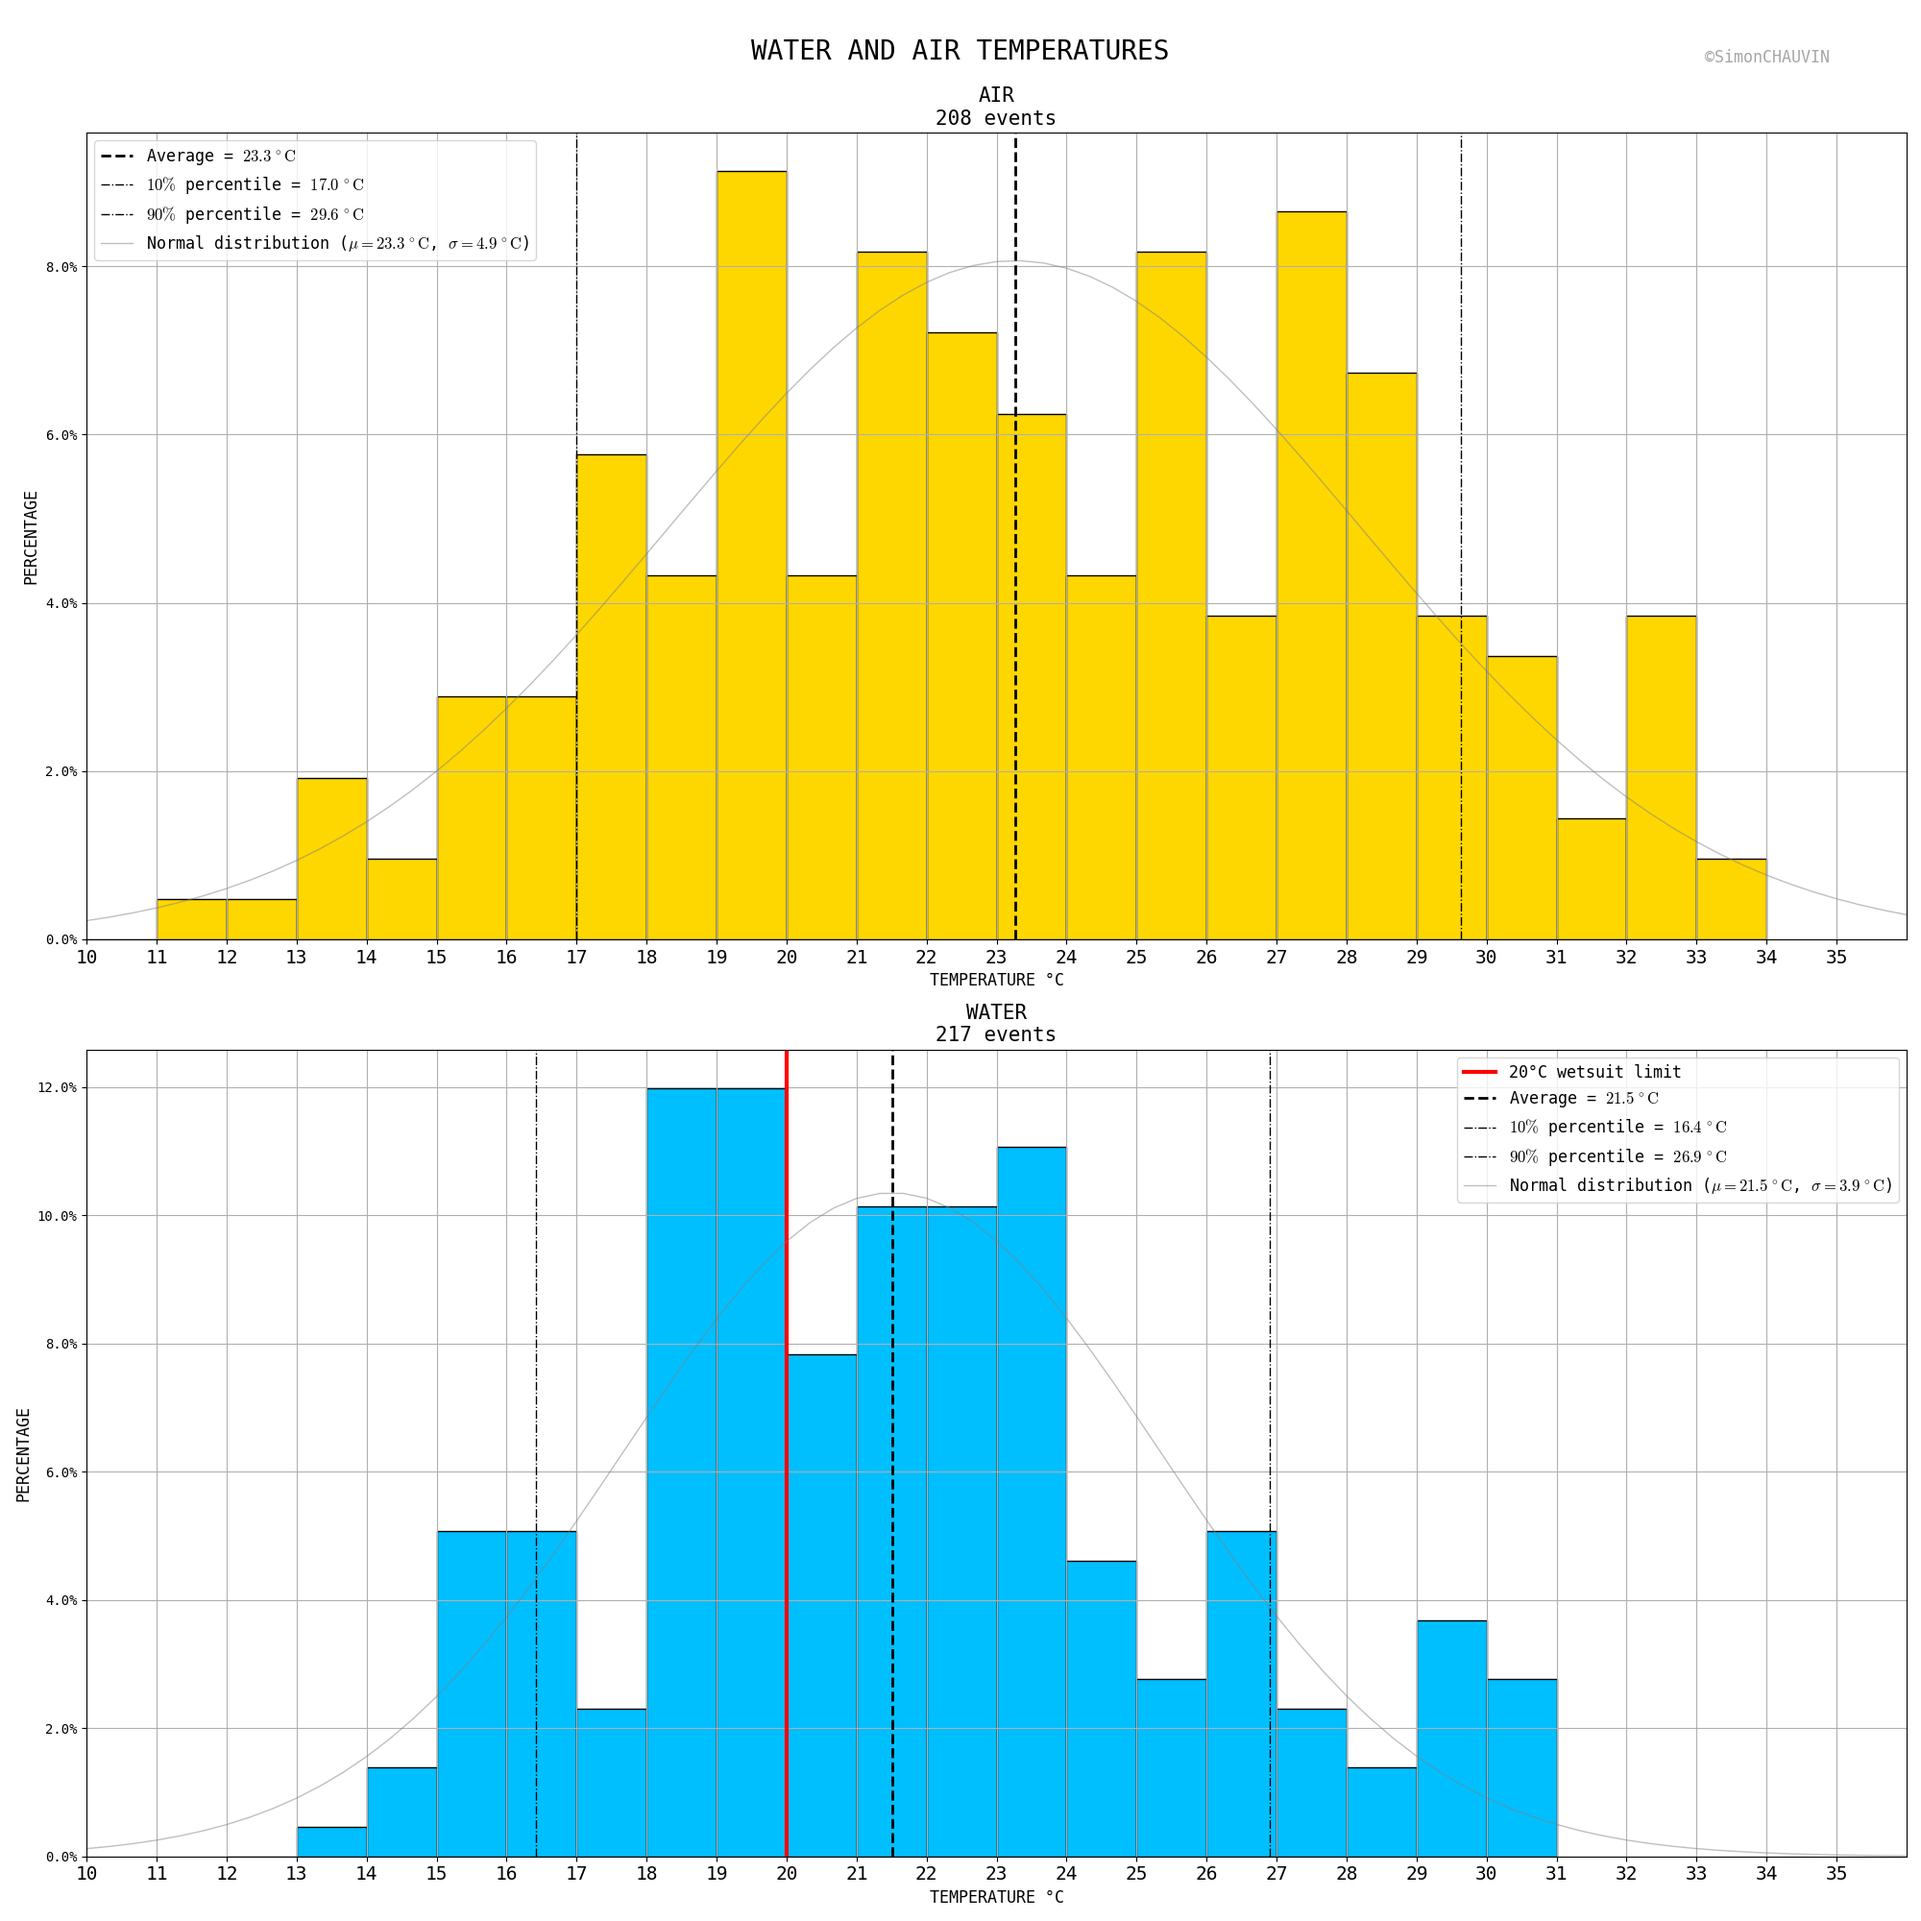
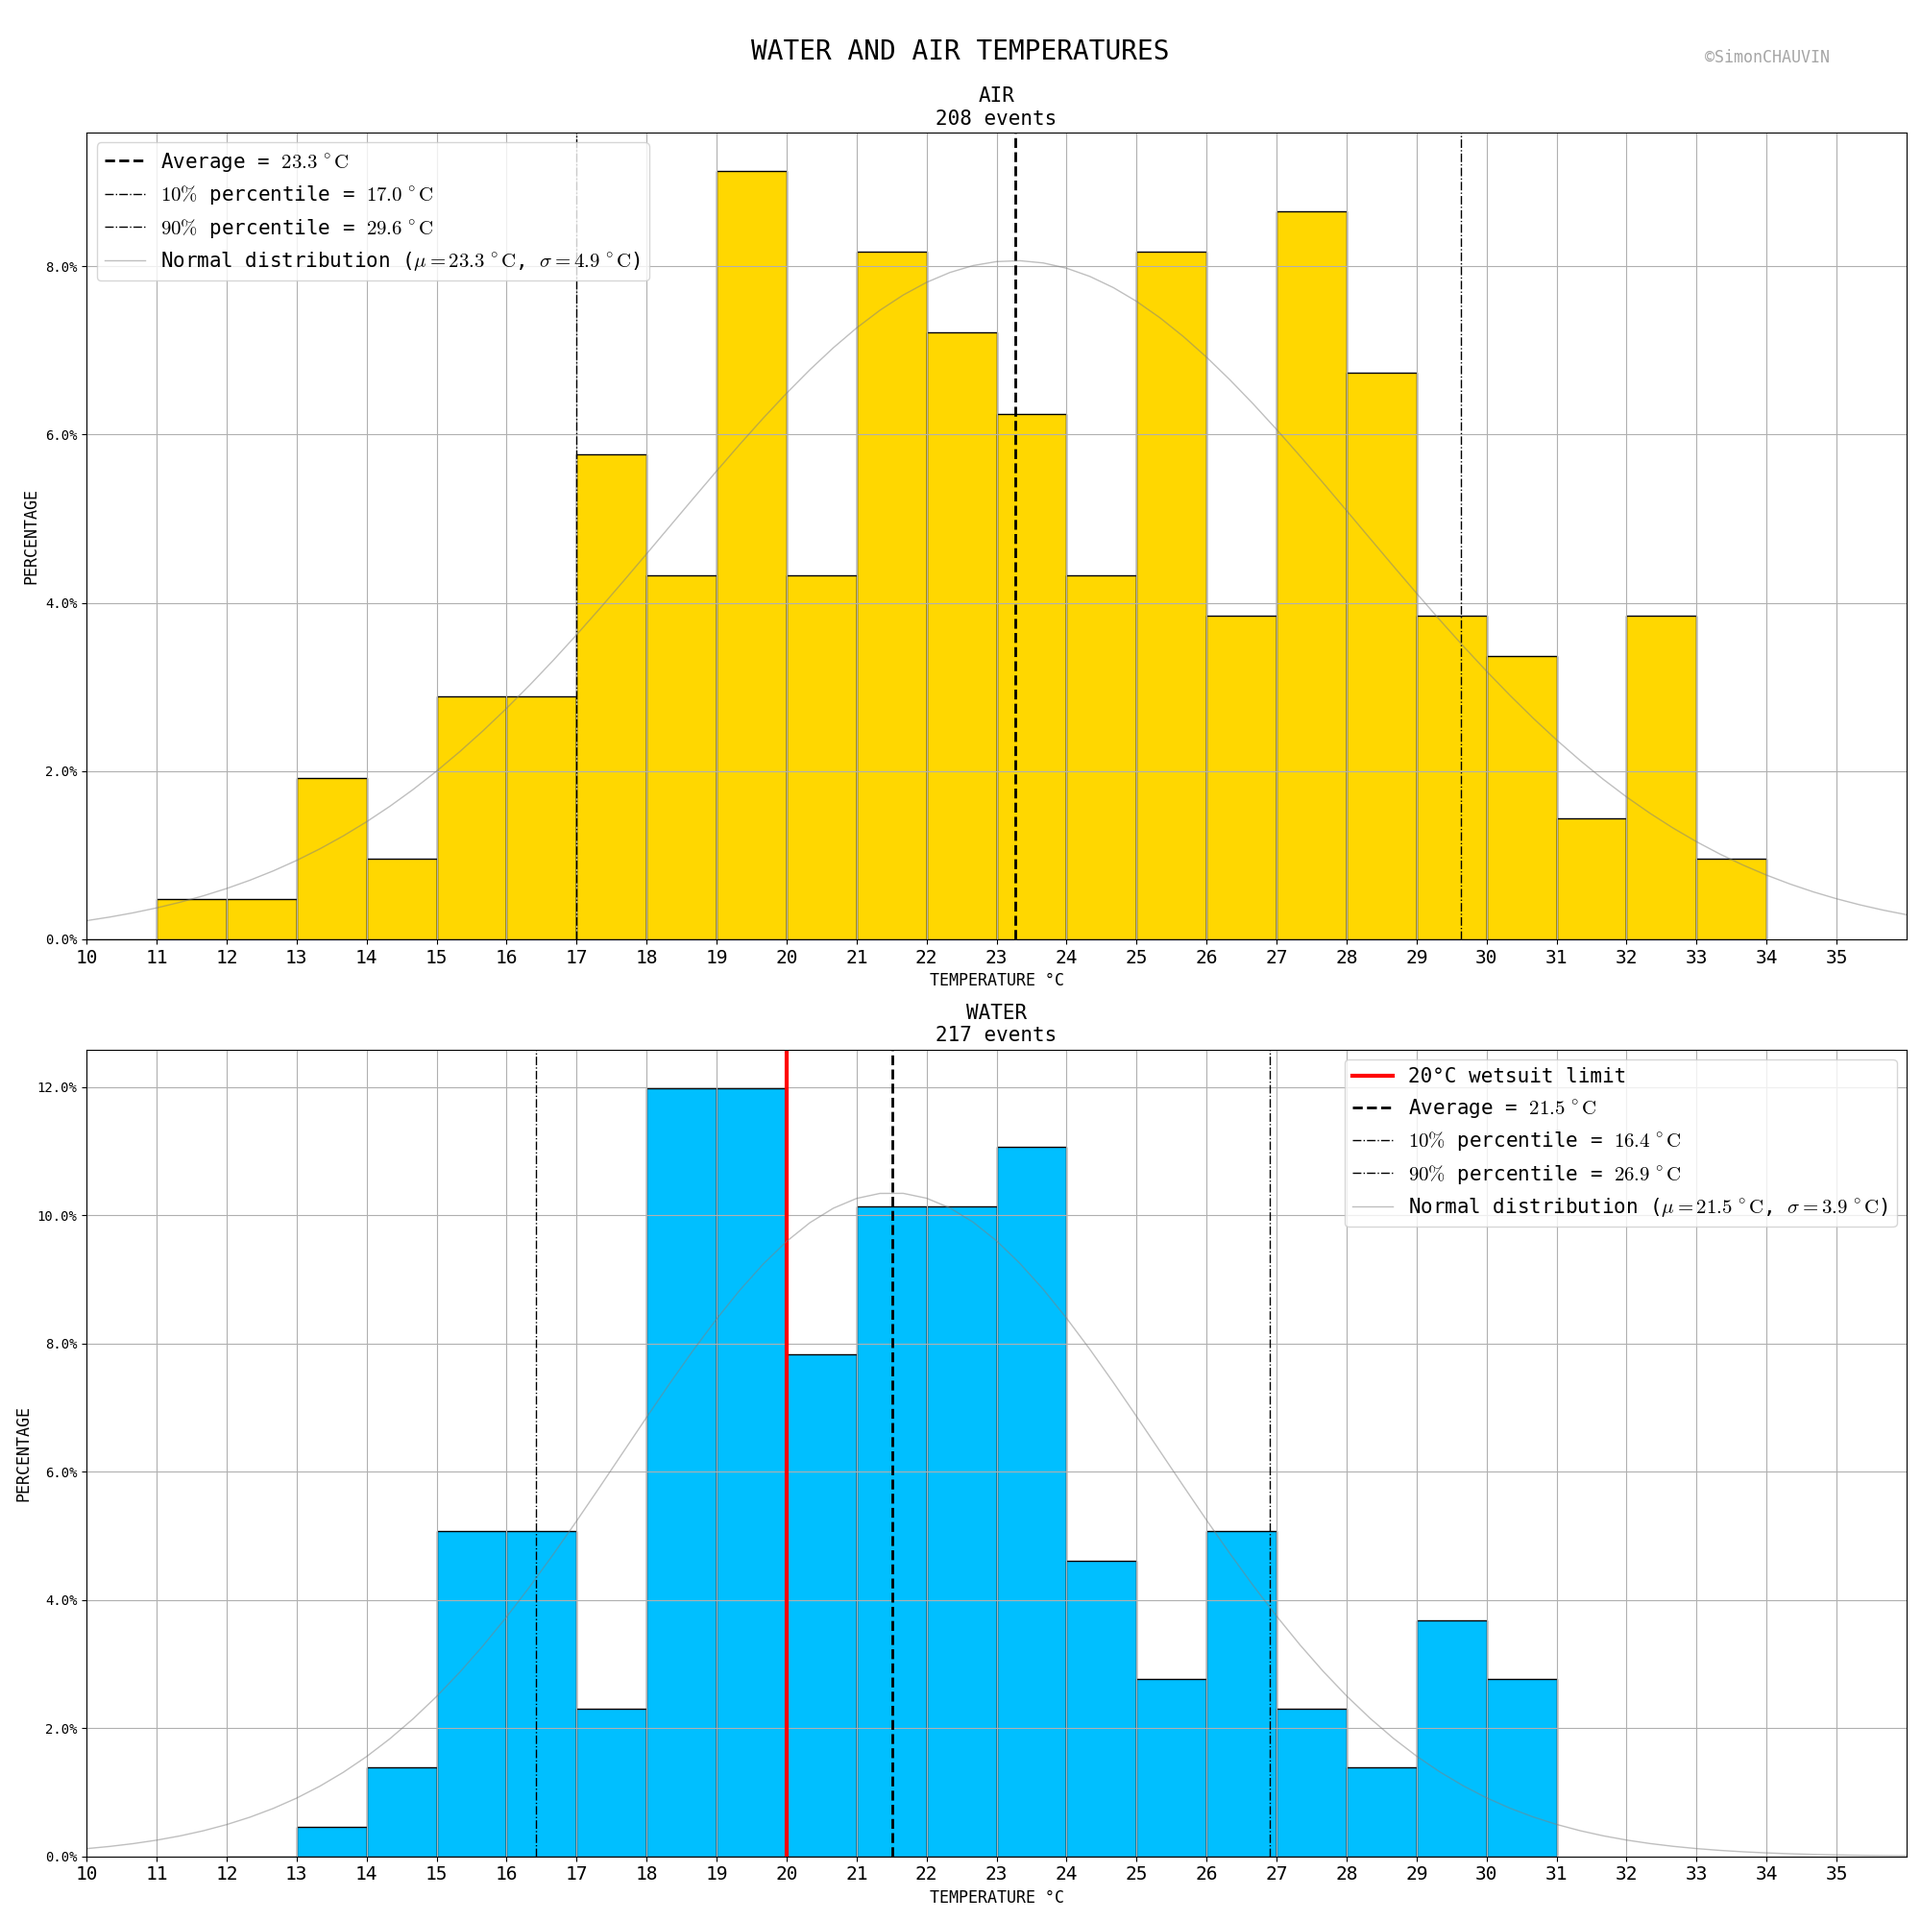
update text

Changed region(s): [[0.713, 0.558, 0.899, 0.651], [0.062, 0.062, 0.31, 0.155], [0.93, 0.62, 0.961, 0.651]]

diff --git a/races.py b/races.py
@@ -2736,7 +2736,7 @@ def process_temperatures(df):
         axes[i_measure].set_xlim(measure_min - 1, measure_max + 2)
         axes[i_measure].set_xticks(range(int(measure_min) - 1, int(measure_max) + 2, 1))
         axes[i_measure].tick_params(axis='x', which='major', labelsize=14)
-        axes[i_measure].legend(fontsize=12)
+        axes[i_measure].legend(fontsize=15)
         axes[i_measure].set_title(f"{measure.upper()}\n{len(data)} events", fontsize=15)
         axes[i_measure].set_xlabel("TEMPERATURE °C", fontsize=12)
         axes[i_measure].set_ylabel("Percentage".upper(), fontsize=12)
@@ -2890,8 +2890,7 @@ def process_temperatures(df):
                     axes[i_distance_category, i_suffix].axvline(
                         20,
                         linestyle="-.",
-                        linewidth=1,
-                        alpha=1,
+                        linewidth=2,
                         color="black",
                         label="20°C"
                     )
@@ -2927,7 +2926,7 @@ def process_temperatures(df):
                     # Add the rectangle to the plot
                     axes[i_distance_category, i_suffix].add_patch(rect)
 
-                axes[i_distance_category, i_suffix].legend()
+                axes[i_distance_category, i_suffix].legend(fontsize=15)
 
         # create markdown table
         df = df.dropna(subset=[f"{measure}_temperature_w", f"{measure}_temperature_m"])

diff --git a/README.md b/README.md
@@ -10,7 +10,7 @@ This document **analyses data** of [**World Triathlon**](https://triathlon.org/)
 - :dart: How often does an athlete **win from a bike breakaway**?
 - :runner: How often does the **best runner win**?
 - :rocket: How often is the win decided with a **sprint finish**?
-- :thermometer: Do **water and air temperatures** affect swimming and running performance, respectively? 
+- :thermometer: Do **water and air temperatures** affect swimming and running performance? 
 - :white_flag: What are the most represented **nations**? Which nations have serious problems for their **Olympics selection**?
 - :muscle: What is the typical **age** of performing athletes and how has it evolved over years?
 - :next_track_button: **How old** are athletes when they **stop racing**?
@@ -1155,7 +1155,7 @@ The swim of [2024 Paris ( :fr: ) Olympics](https://triathlon.org/results/result/
 
 # :thermometer: TEMPERATURES
 
-This section examines the recorded **water and air temperatures** and, inspired by the recent work by [Gibson (2024)](https://eprints.qut.edu.au/250162/), investigates their influence on **swimming and running performance**, respectively.
+This section examines the recorded **water and air temperatures** and, inspired by the recent work by [Gibson (2024)](https://eprints.qut.edu.au/250162/), investigates their impact on **swimming and running performance**, respectively.
 
 | ![temperatures.png](res/temperatures.png) | 
 |:-----------------------------------------:| 
@@ -1169,32 +1169,35 @@ The **temperature ranges** are **broad**:
 
 ---
 
-**Several limitations** should be noted:
-- More than half of the events do not report any temperature.
-- The **recorded temperatures** are most likely **lower** than the **actual temperatures** on the course.
-  - Because measurements are made **before the race**.
+**Several limitations** should be considered:
+- **Incomplete data:** Over half of the events lack temperature data, limiting the analysis's comprehensiveness.
+- **Pre-race measurements:** The recorded temperatures are likely **lower than the actual conditions** experienced during the race since measurements are typically **taken before the event**. Specifically:
   - _"Water temperature must be taken **one hour** prior to the start of the event on competition day. It must be taken at the middle of the course and in two other areas on the swim course, at a **depth of 60 cm**."_
-  - Air temperatures are likely also **recorded before the race**. By the time athletes **begin the run**, it **can get significantly warmer**.
-- In addition to the air temperature, **humidity** could have a significant impact on running performance, but its value is not reported.
+  - Air temperatures are likely **recorded before the race** as well, potentially leading to **significant temperature increases** by the time athletes begin the run.
+- **Humidity Impact:** While humidity could significantly affect running performance, its values are **not reported**.
 - Last but not least, **swim and run courses vary in distance**, and water conditions (e.g., waves, salinity) also differ between events, making **comparisons challenging**.
 
-:warning: Given these **limitations**, particularly the variation in course distances, **caution is necessary when drawing conclusions**!
+:warning: Given these **limitations**, especially the variation in course distances, **conclusions should be drawn with caution**.
 
 ---
+
+### :ocean: Water temperatures and swim times
 
 | ![temperatures_water.png](res/temperatures_water.png) | 
 |:-----------------------------------------------------:| 
 |          *Water temperature and swim times.*          |
 
-The [women's race](https://triathlon.org/results/result/2021_world_triathlon_cup_haeundae/454064) at [Haeundae ( :kr: ) (2021)](https://www.triathlon.org/events/event/2021_world_triathlon_cup_haeundae) is ignored because of **inconsistency with the 20°C-rule** for the wetsuit:
-- The race report says: _"Water temperature 21.3ºC. Air temperature 15.4º C. Wetsuits allowed."_
+The [women's race](https://triathlon.org/results/result/2021_world_triathlon_cup_haeundae/454064) at [Haeundae ( :kr: ) (2021)](https://www.triathlon.org/events/event/2021_world_triathlon_cup_haeundae) is excluded due to an **inconsistency with the 20°C wetsuit rule**:
+- The race report notes: _"Water temperature 21.3ºC. Air temperature 15.4º C. Wetsuits allowed."_
 - The [2024 rule book](https://www.triathlon.org/uploads/docs/World-Triathlon_Competition-Rules_2024_20240416.pdf) states in section 4.4.b. that _"when the water temperature is at or below 22ºC and the **air temperature** is at or below **15ºC**, then **the value of the water temperature will be adjusted**."_
   - For instance: Air at 15°C and water at 22°C -> The **water temperature is adjusted** at 18.5°C -> Wetsuit allowed.
-  - Probably this 15°C threshold was higher in 2021.
+  - It is possible that the 15°C threshold was higher in 2021, leading to the discrepancy.
 
 Swim appears **slightly faster in water temperatures below 20°C**
 - Likely because **wetsuits are permitted** at these lower temperatures.
-- Further studies could try to estimate the optimal range of **water temperature** for races with and without wetsuits.
+- Further research could explore the **optimal water temperature range** for races, with and without wetsuits.
+
+---
 
 :swimmer: Some cold and hot **swims**:
 
@@ -1224,16 +1227,17 @@ Swim appears **slightly faster in water temperatures below 20°C**
 
 ---
 
+### :parasol_on_ground: Air temperatures and run times
+
+
 | ![temperatures_air.png](res/temperatures_air.png) | 
 |:-------------------------------------------------:| 
 |         *Air temperature and run times.*          |
 
 A **2nd degree fit** is applied on the scatter plot using [`seaborn.regplot`](https://seaborn.pydata.org/generated/seaborn.regplot.html).
-- Again, care is required to draw conclusions.
-  - In particular, I think no optimal temperature can be determined.
-- Nevertheless, the fitted line tends to indicate that **heat slows down run paces**.
-  - This would be **consistent with personal experience** :hot_face:, as well as with [research findings](https://www.outsideonline.com/health/running/racing/race-strategy/how-much-does-heat-slow-your-race-pace/).
-  - This also explains all the **hydrating and cooling strategies**, such as the **[cooling headbands](https://conecta.tec.mx/en/news/national/entrepreneurs/goodbye-heat-mexican-creates-band-cool-down-olympic-athletes)**.
+- It suggests a trend where **higher temperatures** correlate with **slower running paces**.
+- While no definitive "optimal" temperature can be reliably determined, this trend **aligns** with both [research findings](https://www.outsideonline.com/health/running/racing/race-strategy/how-much-does-heat-slow-your-race-pace/) and **personal experiences** ( :hot_face: ).
+- It also underscores the **importance of hydration and cooling strategies**, such as the use of **[cooling headbands](https://conecta.tec.mx/en/news/national/entrepreneurs/goodbye-heat-mexican-creates-band-cool-down-olympic-athletes)**.
 
 :runner: Some cold and hot **runs**:
 
@@ -2116,8 +2120,8 @@ Here are some simplified **key takeaways**:
 - :woman_cartwheeling: Women's races occasionally feature **wins by very large margins**.
 - :straight_ruler: The gaps between the **winner and the second** are, on average, **twice as large** in olympic formats compared to sprint formats, and **twice as large** for women compared to men.
 - :rocket: **Bike** and **run** times in WTCS olympic races have reached **all-time lows**.
-- :thermometer: Athletes must be able to **race in cold and warm conditions**: 80% of the recorded **air** temperatures lay between **17.0 and 29.6 °C** (lower estimates).
-- :hot_face: **Heat** tends to **slow down** the running pace.
+- :thermometer: Athletes must compete in a **variety of conditions**: Notably, 80% of the **recorded air temperatures** fall between **17.0** and **29.6°C** (lower estimates).
+- :hot_face: **Heat** tends to **slow down** running pace.
 - :calendar: On average, athletes raced **10 times** (world cups and WTCS) in 2019 and 2023, compared to **6 times in 2009**.
 - :calendar: Their World Triathlon sprint- and olympic-distance season has extended from **130 days** in 2009 to **200 days** in 2023.
 - :ticket: The limit of **3 athletes per nation** for the Olympics creates challenges for the highly represented nations such as :us:, :gb:, :australia:, :de: and :fr:.
